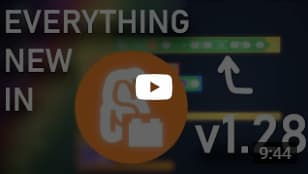
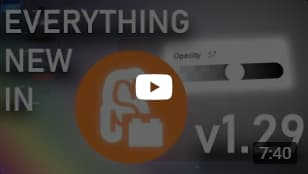
Add v1.29 update notification video link and thumbnail (#5251)

diff --git a/content-scripts/cs.js b/content-scripts/cs.js
@@ -604,7 +604,7 @@ const showBanner = () => {
     line-height: 1em;`,
   });
   const notifImageLink = Object.assign(document.createElement("a"), {
-    href: "https://www.youtube.com/watch?v=e_70jvFOmfI",
+    href: "https://www.youtube.com/watch?v=OCaaH-TtQB0",
     target: "_blank",
     rel: "noopener",
     referrerPolicy: "strict-origin-when-cross-origin",
